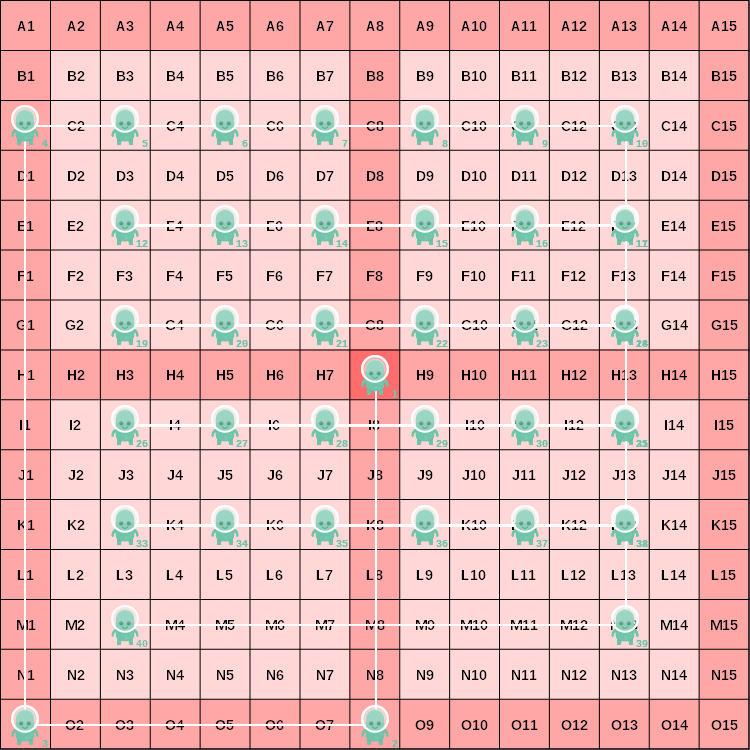
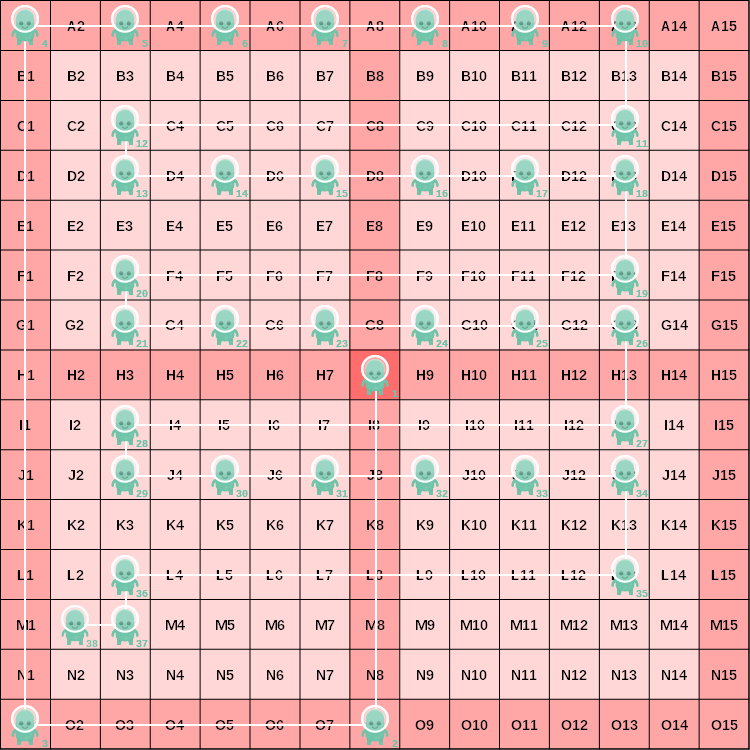
Amélioration exo 42

diff --git a/exercices/42.py b/exercices/42.py
@@ -2,11 +2,13 @@ from libs.alien import *
 
 bas(7)
 gauche(7)
-haut(12)
-for loop in range(5) :
+haut(14)
+for loop in range(4) :
     while colonne() < 13 :
         droite(2)
     bas(2)
     gauche(10)
+    bas()
+gauche()
 
 ss()
